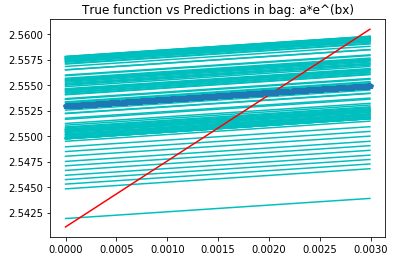
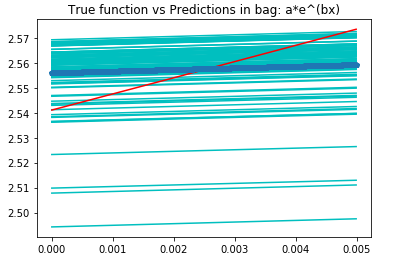
make models converge more closely
shrunk the range that values can take, randomly sampled, because large ones are ill conditioned so it converges better

diff --git a/plot_bag_of_pred_vs_true.py b/plot_bag_of_pred_vs_true.py
@@ -3,7 +3,7 @@ import numpy as np
 
 index = 0
 x = []
-with open('weights_base.txt') as f:
+with open('weights.txt') as f:
     lines = f.readlines()
     num = len(lines)
     x = list(range(num))
@@ -22,7 +22,7 @@ def f_avg(x,b0,b1):
         avg += f(x,b0[i],b1[i])
     return avg/len(b0)
 
-X = np.arange(0,0.003,0.00001)
+X = np.arange(0,0.005,0.00001)
 
 for i in range(len(b0)):
     plt.plot(X,f(X,b0[i],b1[i]),'c')
